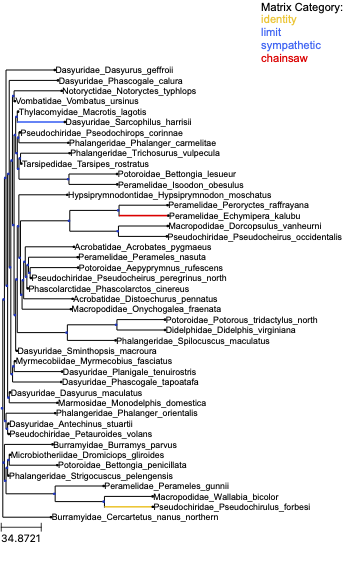
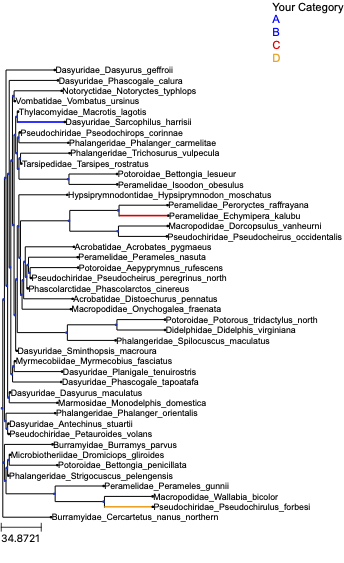
update demo graph in README

diff --git a/README.md b/README.md
@@ -28,7 +28,7 @@ edge_to_cat = {"Vombatidae_Vombatus_ursinus": "A",
 cat_to_colour={"A":"blue", 
  "B":"blue", 
  "C":"red", 
- "D":"yellow"}
+ "D":"orange"}
 
 cl = get_app("ete3_colour_edge", edge_to_cat=edge_to_cat, cat_to_colour=cat_to_colour)
 t = cl(t)
